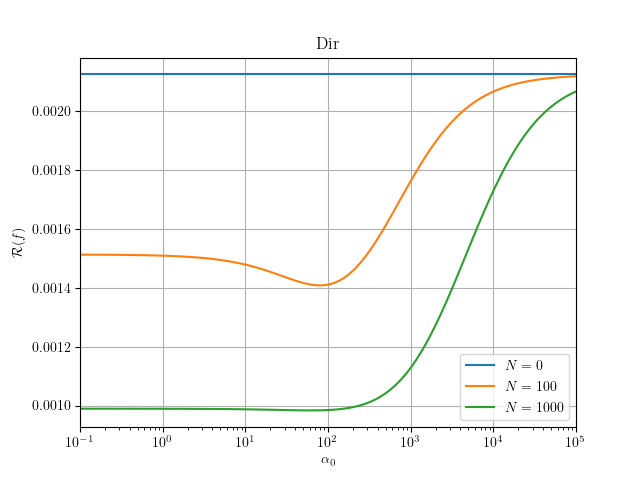
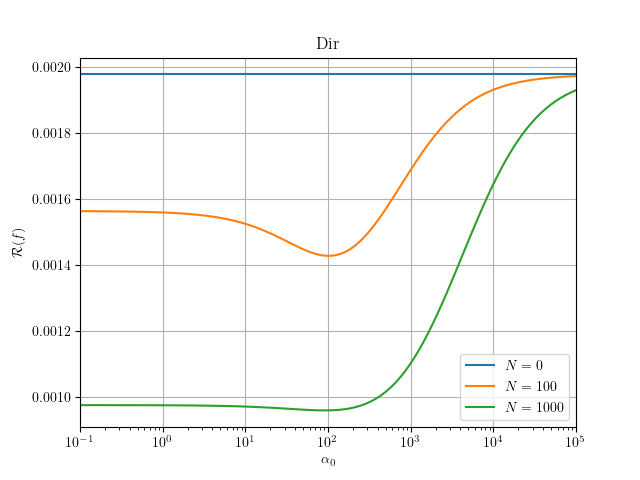
Discrete journal work wrap-up

diff --git a/Documentation/Thesis/Bayesian ML Theory.tex b/Documentation/Thesis/Bayesian ML Theory.tex
@@ -1415,33 +1415,33 @@ The Bayes predictive PMF can thus be expressed as
 PGR: use poster table??
 
 
-It is instructive to treat the distribution $\Prm_{\yrm | \xrm,\uppsi}$ as an estimate of the unknown conditional PMF $\Prm_{\yrm | \xrm,\uptheta} \equiv \upthetac(\xrm)$ and investigate the effects of informative prior knowledge. For a given $\xrm$, the expected value of the estimate conditioned on the true model is
+It is instructive to treat the Bayesian predictive distribution $\Prm_{\yrm | \xrm,\Drm}$ as an estimator of the clairvoyant predictive distribution $\Prm_{\yrm | \xrm,\uptheta} \equiv \upthetac(\xrm)$ and investigate the effects of prior knowledge. Of specific interest are the mean $\Erm_{\Drm | \uptheta}\big[\mu_{\yrm | \xrm, \Drm}\big]$ and covariance $\Crm_{\Drm | \uptheta}\big[\mu_{\yrm | \xrm, \Drm}\big]$ with respect to the true model $\uptheta$.  To simplify the analysis, the training data $\Drm$ will be represented using the marginal and conditional sufficient statistics $(\uppsim, \uppsic)$. 
+
+For a given $\xrm$, the expected value of the estimate conditioned on the true model is
 \begin{IEEEeqnarray}{L} \label{eq:predictive_dist_avg}
 \Erm_{\uppsim,\uppsic | \upthetam,\upthetac}\big[ \Prm_{\yrm | \xrm,\uppsim,\uppsic} \big] 
 = \Erm_{\uppsim(\xrm),\uppsic(\xrm) | \upthetam(\xrm),\upthetac(\xrm)}\big[ \Prm_{\yrm | \xrm,\uppsim(\xrm),\uppsic(\xrm)} \big] \\ 
 \quad = \Erm_{\uppsim(\xrm) | \upthetam(\xrm)} \big[\gammam(\xrm; \uppsim)\big] \alphac(\xrm) + \Erm_{\uppsim(\xrm) | \upthetam(\xrm)} \big[1 - \gammam(\xrm; \uppsim)\big] \upthetac(\xrm) \nonumber
 \end{IEEEeqnarray}
-where the properties of an Empirical distribution conditioned on its aggregation have been used. The result is a convex combination of the conditional data-independent distribution $\alphac(\xrm)$ and the true conditional distribution $\upthetac(\xrm)$. 
-
-
-To aid characterization of the estimator, define the random process $\Delta(\xrm;\uppsim,\uppsic,\upthetac) \equiv \Prm_{\yrm | \xrm,\uppsim,\uppsic} - \Prm_{\yrm | \xrm,\upthetac} \in \Rbb^{\Ycal}$. For a given $\xrm$, the bias of the conditional PMF estimate is
-\begin{IEEEeqnarray}{rCl} \label{eq:predictive_bias}
-\mathrm{Bias}(\xrm;\upthetam,\upthetac) & = & \Erm_{\uppsim, \uppsic | \upthetam,\upthetac}\big[ \Delta(\xrm;\uppsim,\uppsic,\upthetac) \big] \\
-& = & \Erm_{\uppsim(\xrm) | \upthetam(\xrm)}\big[\gammam(\xrm; \uppsim)\big] \big( \alphac(\xrm) - \upthetac(\xrm) \big) \nonumber
-\end{IEEEeqnarray}
-and, noting that
+where the properties of an Empirical distribution (Appendix \ref{app:emp}) conditioned on its aggregation have been used. The result is a convex combination of the conditional data-independent distribution $\alphac(\xrm)$ and the true conditional distribution $\upthetac(\xrm)$. Noting that
 \begin{IEEEeqnarray}{L}
 \Prm_{\yrm | \xrm,\uppsim,\uppsic} - \Erm_{\uppsim,\uppsic | \upthetam,\upthetac}\big[ \Prm_{\yrm | \xrm,\uppsim,\uppsic} \big] \\
 \quad = \Big( \gammam(\xrm; \uppsim) - \Erm_{\uppsim | \upthetam}\big[ \gammam(\xrm; \uppsim) \big] \Big) \big(\alphac(\xrm) - \upthetac(\xrm)\big) \nonumber \\
 \qquad + \big(1 - \gammam(\xrm; \uppsim)\big) \big(\uppsic(\xrm) - \upthetac(\xrm)\big) \nonumber \;,
 \end{IEEEeqnarray}
-its covariance function is 
+the covariance of the estimate can be represented as
 \begin{IEEEeqnarray}{L} \label{eq:predictive_cov}
 \mathrm{Cov}(\xrm;\upthetam,\upthetac) = \Crm_{\uppsim,\uppsic | \upthetam,\upthetac} \big[\Prm_{\yrm | \xrm,\uppsim,\uppsic} \big] \\
 \quad = \Crm_{\uppsim(\xrm) | \upthetam(\xrm)}\big[ \gammam(\xrm; \uppsim) \big] \big( \alphac(\xrm) - \upthetac(\xrm) \big) \otimes \big( \alphac(\xrm) - \upthetac(\xrm) \big) \nonumber \\
-\qquad + \Erm_{\uppsim(\xrm) | \upthetam(\xrm)}\left[ \frac{\big(1 - \gammam(\xrm; \uppsim)\big)^2}{N \uppsim(\xrm)} \right] \Big( \diag\big(\upthetac(\xrm)\big) - \upthetac(\xrm) \otimes \upthetac(\xrm) \Big) \nonumber \;,
+\qquad + \Erm_{\uppsim(\xrm) | \upthetam(\xrm)}\left[ \frac{\big(1 - \gammam(\xrm; \uppsim)\big)^2}{N \uppsim(\xrm)} \right] \Big( \diag\big(\upthetac(\xrm)\big) - \upthetac(\xrm) \otimes \upthetac(\xrm) \Big) \nonumber \;.
 \end{IEEEeqnarray}
-where the properties of Empirical random processes have been used. Note that the bias is proportionate to the difference between the true conditional model and the data-independent estimate, while the covariance also depends on $\Sigma_{\uppsic(x) | \uppsim(x), \upthetac(x)}$. 
+
+To further aid characterization of the estimator, define the random process $\Delta(\xrm;\uppsim,\uppsic,\upthetac) \equiv \Prm_{\yrm | \xrm,\uppsim,\uppsic} - \Prm_{\yrm | \xrm,\upthetac} \in \Rbb^{\Ycal}$, measuring the difference between the true and estimated predictive PMF. For a given $\xrm$, the bias of the estimate is thus
+\begin{IEEEeqnarray}{rCl} \label{eq:predictive_bias}
+\mathrm{Bias}(\xrm;\upthetam,\upthetac) & = & \Erm_{\uppsim, \uppsic | \upthetam,\upthetac}\big[ \Delta(\xrm;\uppsim,\uppsic,\upthetac) \big] \\
+& = & \Erm_{\uppsim(\xrm) | \upthetam(\xrm)}\big[\gammam(\xrm; \uppsim)\big] \big( \alphac(\xrm) - \upthetac(\xrm) \big) \nonumber \;.
+\end{IEEEeqnarray}
+Note that the bias is proportionate to the difference between the true conditional model and the data-independent estimate, while the covariance also depends on $\Sigma_{\uppsic(x) | \uppsim(x), \upthetac(x)}$. 
 
 Combining the estimator bias and variance, the conditional second moments of $\Delta(\xrm;\uppsim,\uppsic,\upthetac)$ are
 \begin{IEEEeqnarray}{rCl} \label{eq:predictive_del_sq}
@@ -1493,7 +1493,7 @@ To exemplify how the model estimate $\Prm_{\yrm | \xrm,\uppsi}$ approximates $\P
 \label{fig:model_est/N_0}
 \end{figure}
 
-\Cref{fig:model_est/N_1,fig:model_est/N_100,fig:model_est/N_10000} show how the bias and variance of the estimate changes with different values of $N$ and $\alpha_0$. The plot lines represent the mean of the estimator, $\Erm_{\uppsi | \uptheta}\big[ \Prm_{\yrm | \xrm,\uppsi} \big]$; the shaded regions represent the square-root of the expected variance above and below the conditional mean. 
+\Cref{fig:model_est/N_1,fig:model_est/N_100,fig:model_est/N_10000} show how the bias and variance of the estimate changes with different values of $N$ and $\alpha_0$. The plot lines represent the mean of the estimator, $\Erm_{\uppsi | \uptheta}\big[ \Prm_{\yrm | \xrm,\uppsi} \big]$; the shaded regions represent the square-root of the expected variance $\Crm_{\uppsi | \uptheta}\big[ \Prm_{\yrm | \xrm,\uppsi} \big]$ above and below the conditional mean. 
 \begin{figure}
 \centering
 \includegraphics[width=0.8\linewidth]{model_est/N_1.png}
@@ -1970,9 +1970,12 @@ Note that due to the high initial bias, both the Dirichlet-based estimator and B
 \end{figure}
 
 
+
 \subparagraph{Bayes SE}
 
-\todohigh{location??? HI-FI figs!!}
+\todohigh{location??? HI-FI N fig!!}
+
+\Cref{fig:SSP_2021/Risk_SE_N,fig:SSP_2021/Risk_SE_a0} display the Bayesian squared-error realized by the Dirichlet-based regressor. The model $\uptheta$ is randomly selected from a Dirichlet distribution with the same $\alpham$ and $\alphac$ used for the regressor design and with the localization fixed at $\alpha_0 = 100$. Observe that with increasing training data volume $N$, all the regressors tend towards the expected irreducible risk. Additionally, the regressor performs best when its localization matches $\alpha_0 = 100$, regardless of the value $N$, achieving the Bayesian squared-error \eqref{eq:Risk_min_SE_dir}.
 
 \begin{figure}
 \centering
@@ -1986,6 +1989,11 @@ Note that due to the high initial bias, both the Dirichlet-based estimator and B
 \caption{Bayes Squared-Error vs. prior localization $\alpha_0$}
 \label{fig:SSP_2021/Risk_SE_a0}
 \end{figure}
+
+
+
+
+
 
 
 

diff --git a/Code/PGR_thesis/main.py b/Code/PGR_thesis/main.py
@@ -29,7 +29,7 @@ def func_mean_to_models(n, func):
     return [rand_elements.EmpiricalScalar(func(x_i), n - 1) for x_i in np.linspace(0, 1, n, endpoint=True)]
 
 
-n_x = 128
+n_x = 11
 
 
 # True model
@@ -44,21 +44,21 @@ n_x = 128
 w_model = [.5, 0, 0]
 
 
-model = rand_models.DataConditional.from_finite(poly_mean_to_models(n_x, w_model),
-                                                supp_x=np.linspace(0, 1, n_x, endpoint=True), p_x=None)
+# model = rand_models.DataConditional.from_finite(poly_mean_to_models(n_x, w_model),
+#                                                 supp_x=np.linspace(0, 1, n_x, endpoint=True), p_x=None)
 # model = rand_models.DataConditional.from_finite(func_mean_to_models(n_x, lambda x: 1 / (2 + np.sin(2*np.pi * x))),
 #                                                 supp_x=np.linspace(0, 1, n_x, endpoint=True), p_x=None)
 
 # model = rand_models.BetaLinear(weights=w_model, basis_y_x=None, alpha_y_x=100, model_x=rand_elements.Beta())
-# model = rand_models.BetaLinear(weights=[1], basis_y_x=[lambda x: 1 / (2 + np.sin(2*np.pi * x))], alpha_y_x=100,
-#                                model_x=rand_elements.Beta())
+model = rand_models.BetaLinear(weights=[1], basis_y_x=[lambda x: 1 / (2 + np.sin(2*np.pi * x))], alpha_y_x=100,
+                               model_x=rand_elements.Beta())
 
 
 # model = rand_models.NormalLinear(weights=np.ones(2), basis_y_x=None, cov_y_x=.1, model_x=rand_elements.Normal(0, 10))
 
 
-do_bayes = True
-# do_bayes = False
+# do_bayes = True
+do_bayes = False
 if do_bayes:
     model_eval = bayes_models.Dirichlet(model, alpha_0=100)
     opt_predictor = BayesRegressor(model_eval, name=r'$f^*$')
@@ -79,19 +79,16 @@ proc_funcs = []
 # prior_mean = rand_models.DataConditional.from_finite([rand_elements.Finite([0, .5], [p, 1 - p]) for p in (.9, .1)],
 #                                                      supp_x=[0, .5], p_x=None)
 
-prior_mean = rand_models.DataConditional.from_finite(poly_mean_to_models(n_x, w_prior),
-                                                     supp_x=np.linspace(0, 1, n_x, endpoint=True), p_x=None)
-# prior_mean = rand_models.DataConditional.from_finite(func_mean_to_models(n_x, lambda x: 1 / (2 + np.sin(2*np.pi * x))),
+# prior_mean = rand_models.DataConditional.from_finite(poly_mean_to_models(n_x, w_prior),
 #                                                      supp_x=np.linspace(0, 1, n_x, endpoint=True), p_x=None)
 
 # prior_mean_x = rand_elements.Beta()
-
-# prior_mean_x = rand_elements.Mixture([rand_elements.DataEmpirical(np.linspace(0, 1, n_x, endpoint=True),
-#                                                                   counts=np.ones(n_x), space=model.space['x']),
-#                                       rand_elements.Beta()],
-#                                      weights=[1000, 1])
-# prior_mean = rand_models.BetaLinear(weights=w_prior, basis_y_x=None, alpha_y_x=100, model_x=prior_mean_x)
-# proc_funcs.append(discretizer(prior_mean_x.dists[0].data['x']))
+prior_mean_x = rand_elements.Mixture([rand_elements.DataEmpirical(np.linspace(0, 1, n_x, endpoint=True),
+                                                                  counts=np.ones(n_x), space=model.space['x']),
+                                      rand_elements.Beta()],
+                                     weights=[1000, 1])
+prior_mean = rand_models.BetaLinear(weights=w_prior, basis_y_x=None, alpha_y_x=100, model_x=prior_mean_x)
+proc_funcs.append(discretizer(prior_mean_x.dists[0].data['x']))
 
 
 dir_predictor = BayesRegressor(bayes_models.Dirichlet(prior_mean, alpha_0=10), proc_funcs=proc_funcs,
@@ -99,12 +96,10 @@ dir_predictor = BayesRegressor(bayes_models.Dirichlet(prior_mean, alpha_0=10), p
 
 # dir_params = None
 # dir_params = {'alpha_0': [1, 100, 10000]}
-# dir_params = {'alpha_0': [.1, 50]}
-# dir_params = {'alpha_0': [.01, 100]}
+dir_params = {'alpha_0': [.01, 100]}
 # dir_params = {'alpha_0': [100]}
 # dir_params = {'alpha_0': 1e-6 + np.linspace(0, 100, 100)}
-# dir_params = {'alpha_0': 1e-6 + np.concatenate((np.linspace(0, 20, 100), np.linspace(20, 100000, 1000)))}
-dir_params = {'alpha_0': np.logspace(-1., 5., 100)}
+# dir_params = {'alpha_0': np.logspace(-1., 5., 100)}
 
 # Normal learner
 norm_predictor = BayesRegressor(bayes_models.NormalLinear(prior_mean=w_prior, prior_cov=100 * np.eye(len(w_prior)),
@@ -113,16 +108,16 @@ norm_predictor = BayesRegressor(bayes_models.NormalLinear(prior_mean=w_prior, pr
 
 # norm_params = None
 # norm_params = {'prior_cov': [10, 0.05]}
-norm_params = {'prior_cov': [100, .01]}
-# norm_params = {'prior_cov': [100]}
+# norm_params = {'prior_cov': [100, .01]}
+norm_params = {'prior_cov': [100]}
 
 
 # Plotting
 
-# n_train = 100
-n_train = [0, 100, 1000]
+n_train = 100
+# n_train = [0, 100, 1000]
 # n_train = [0, 5, 10]
-# n_train = np.arange(0, 110, 10)
+# n_train = np.arange(0, 550, 50)
 # n_train = np.arange(0, 1100, 100)
 
 
@@ -131,26 +126,26 @@ n_train = [0, 100, 1000]
 
 
 temp = [
-    # (opt_predictor, None),
+    (opt_predictor, None),
     (dir_predictor, dir_params),
-    # (norm_predictor, norm_params),
+    (norm_predictor, norm_params),
 ]
 
 # TODO: discrete plot for predict stats
 # TODO: save fig, png and object!
-# TODO: redo SSP p_dir fig
+# TODO: make latex use optional
 
 plt.rc('text', usetex=True)
 plt.rc('text.latex', preamble=r"\usepackage{amsmath} \usepackage{upgreek}")
 
 predictors, params = list(zip(*temp))
 
-plot_risk_eval_sim_compare(predictors, model_eval, params, n_train=n_train, n_test=1, n_mc=50000,
-                           verbose=True, ax=None, rng=None)
+# plot_risk_eval_sim_compare(predictors, model_eval, params, n_train=n_train, n_test=1, n_mc=200,
+#                            verbose=True, ax=None, rng=None)
 # plot_risk_eval_comp_compare(predictors, model_eval, params, n_train, n_test=1, verbose=False, ax=None)
 
-# plot_predict_stats_compare(predictors, model_eval, params, x=None, n_train=n_train, n_mc=50000,
-#                            do_std=True, verbose=True, ax=None, rng=None)
+plot_predict_stats_compare(predictors, model_eval, params, x=None, n_train=n_train, n_mc=500,
+                           do_std=True, verbose=True, ax=None, rng=None)
 
 
 # print(f"\nAnalytical Risk = {opt_predictor.evaluate_comp(n_train=n_train)}")

diff --git a/Code/PGR_thesis/thesis/random/models.py b/Code/PGR_thesis/thesis/random/models.py
@@ -105,6 +105,9 @@ class MixinRVy:
     def _cov_y_x_single(self, x):
         raise Exception
 
+    def plot_cov_y_x(self, x=None, ax=None):
+        return self.space['x'].plot(self.cov_y_x, x, ax)
+
 
 # class DataConditionalGeneric(Base):
 #     def __new__(cls, model_x, model_y_x, rng=None):
